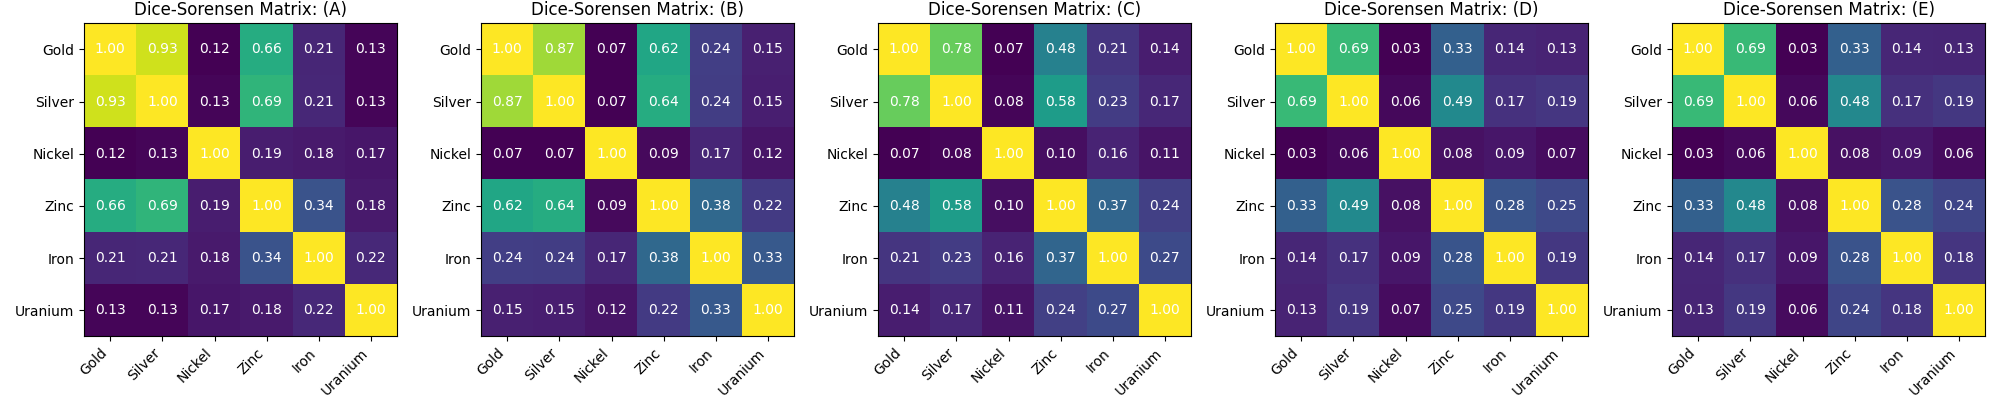
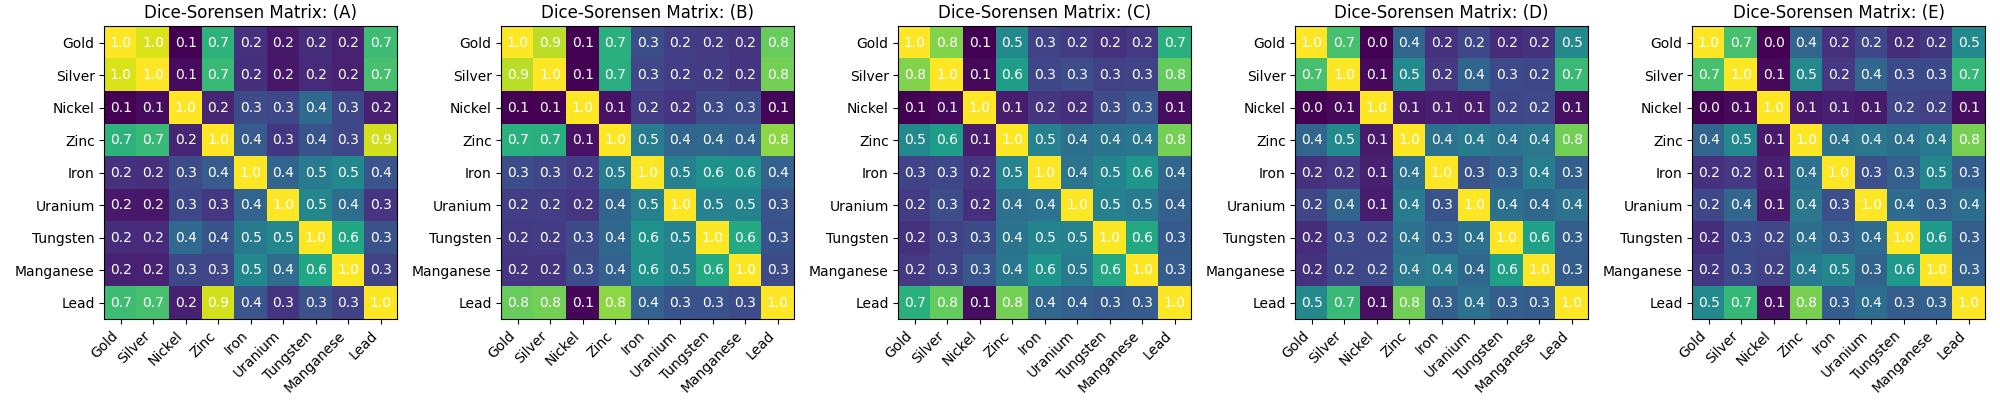
expanded similaritys

diff --git a/similarity.py b/similarity.py
@@ -1,9 +1,10 @@
 import pickle
 import numpy as np
+from scipy.ndimage import gaussian_filter
 
 import matplotlib.pyplot as plt
 
-elements = ['Gold', 'Silver', 'Nickel', 'Zinc', 'Iron', 'Uranium']
+elements = ['Gold', 'Silver', 'Nickel', 'Zinc', 'Iron', 'Uranium', 'Tungsten', 'Manganese', 'Lead']
 data = np.zeros((len(elements), 5), dtype=object)
 dice_sorensen_matrix = np.zeros((len(elements), len(elements), 5))
 
@@ -11,7 +12,7 @@ for i, elem in enumerate(elements):
     for j in range(5):
         with open(f'prepared_data/{elem}_layers(100%).pkl', 'rb') as f:
             elem_data = pickle.load(f)
-        data[i, j] = elem_data[j]
+        data[i, j] = gaussian_filter(elem_data[j], sigma=1)
 
 for i in range(5):
     print(f"Quality level {chr(65+i)}:")
@@ -29,7 +30,6 @@ for k in range(5):
                 union = np.sum(data[i, k]) + np.sum(data[j, k])
                 dice_sorensen_matrix[i, j, k] = 2.0 * intersection / union
 
-
 fig, axs = plt.subplots(1, 5, figsize=(20, 4))
 
 for k in range(5):
@@ -44,7 +44,7 @@ for k in range(5):
 
     for i in range(len(elements)):
         for j in range(len(elements)):
-            text = ax.text(j, i, f"{dice_sorensen_matrix[i, j, k]:.2f}", ha="center", va="center", color="w")
+            text = ax.text(j, i, f"{dice_sorensen_matrix[i, j, k]:.1f}", ha="center", va="center", color="w")
 
 plt.tight_layout()
 plt.savefig('mineralSimilarity.png')
